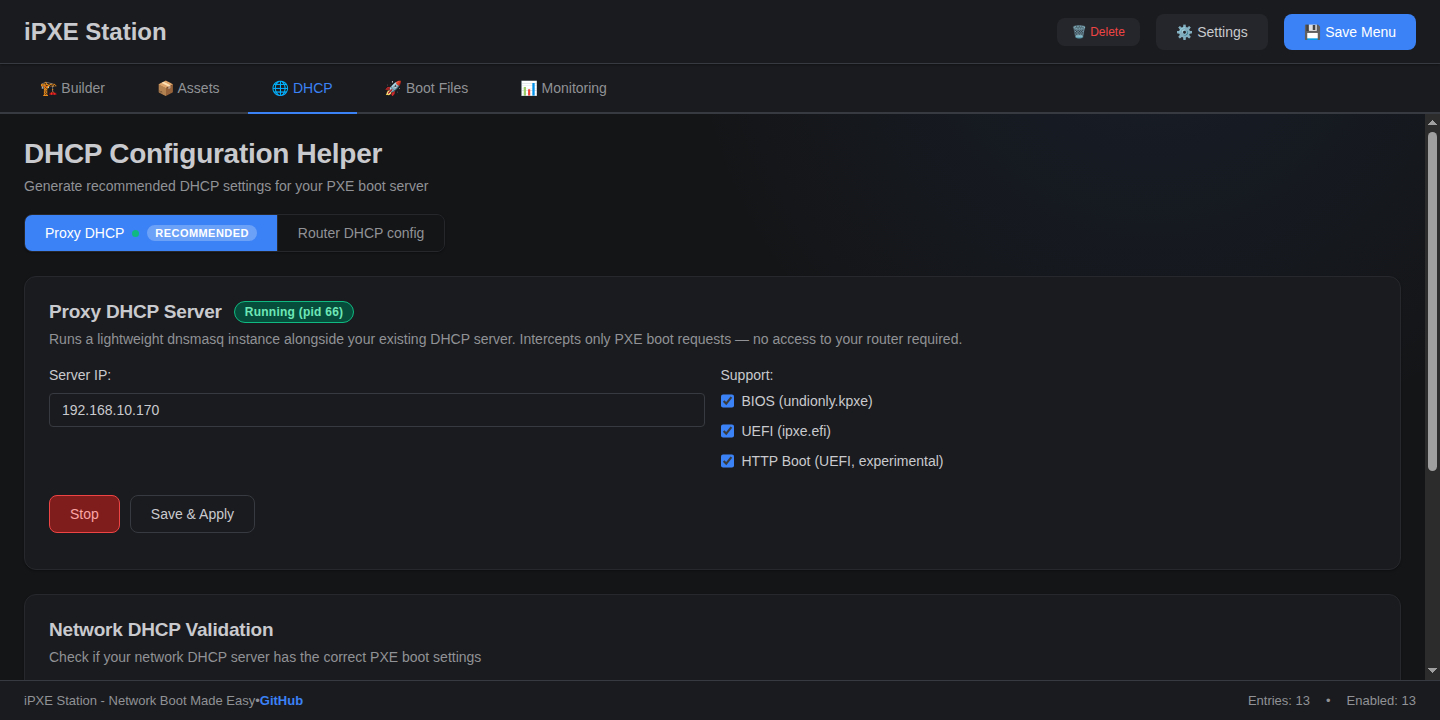
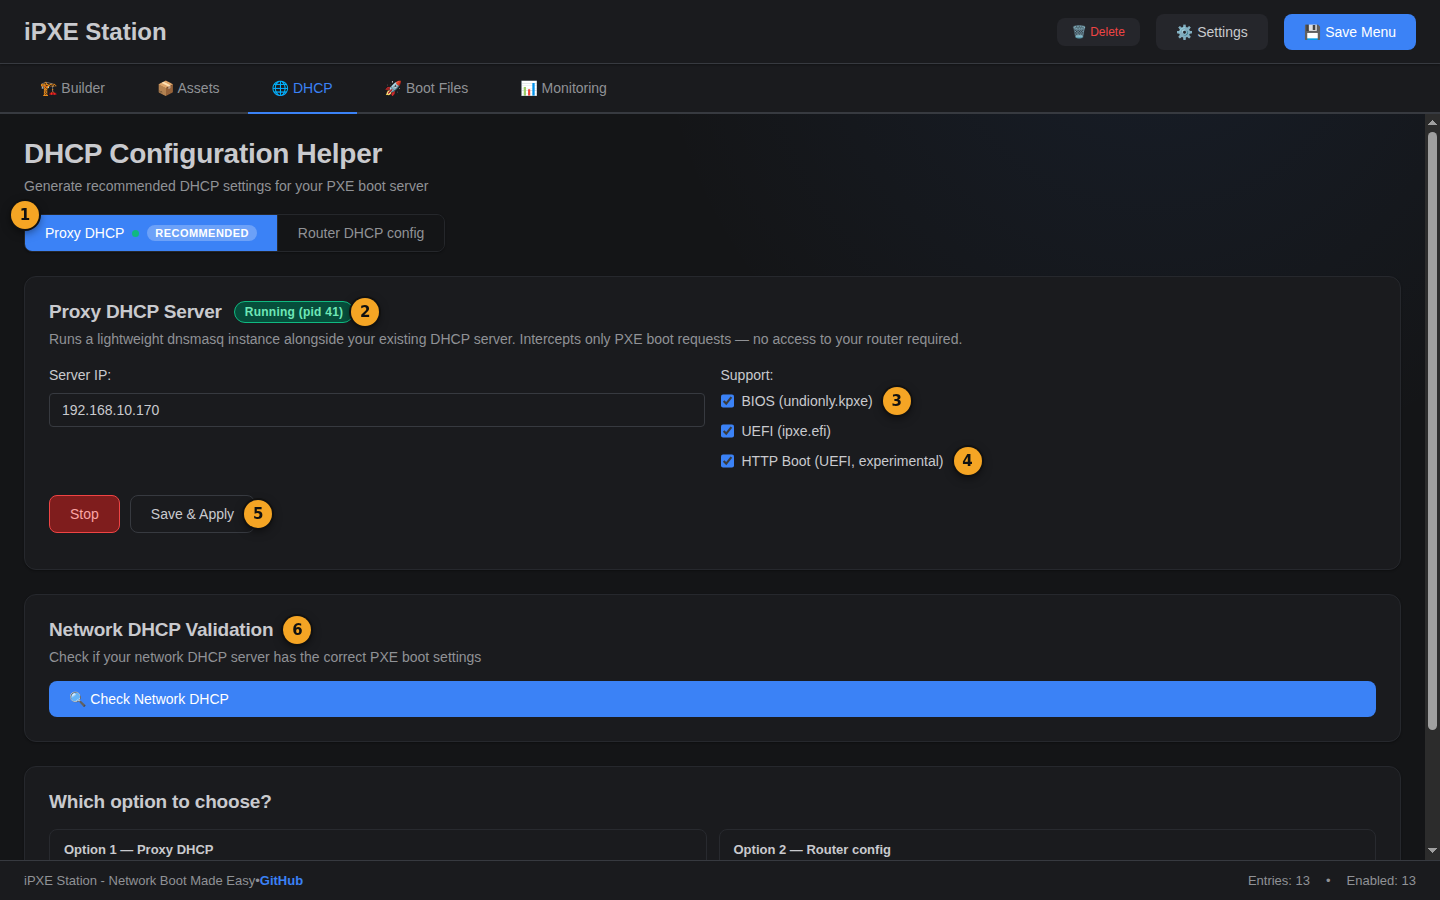
Docs: place annotated screenshots in their feature sections
Replace the 2x2 thumbnail table with one full-width screenshot per feature section
(Builder, Assets, DHCP, Boot Files), each with numbered markers explained in a list
below it, and click-through to the full-size image. Builder now shows the properties
panel of a selected entry, Assets shows the on-disk catalog next to quick download.
Update the test count.

diff --git a/README.md b/README.md
@@ -2,19 +2,22 @@
 
 **iPXE Station** is a self-hosted PXE/iPXE boot server with a modern web interface. It handles the full workflow: downloading distro assets, building hierarchical boot menus, and configuring DHCP — all without touching config files manually.
 
-## 📸 Screenshots
-
-| Menu Builder | Asset Manager |
-|:---:|:---:|
-| ![Menu Builder](docs/screenshots/builder.png) | ![Asset Manager](docs/screenshots/assets.png) |
-
-| DHCP (Proxy DHCP) | Boot Files |
-|:---:|:---:|
-| ![DHCP configuration helper](docs/screenshots/dhcp.png) | ![Boot Files editor](docs/screenshots/boot-files.png) |
-
 ## ✨ Features
 
+> Screenshots are taken from a running instance. The numbered markers on each screenshot match the
+> list underneath it. Click a screenshot to open it full size.
+
 ### 🎨 Visual Menu Builder
+
+[![Menu Builder: tree of entries on the left, properties of the selected entry on the right](docs/screenshots/builder.png)](docs/screenshots/builder.png)
+
+1. **Search and bulk actions** — filter entries, expand or collapse groups, enable or disable everything; **+ Add Entry** opens the scenario wizard
+2. **Menu tree** — submenus and entries; drag to reorder or move an entry into another submenu
+3. **Kernel and initrd** — filled in by the boot recipe for the chosen scenario and downloaded version
+4. **Command-line helper** — merge or replace kernel parameters from ready-made sets
+5. **Save Menu** — regenerates `boot.ipxe`; clients pick up the change on their next boot
+6. **iPXE Script Preview** — the exact script a client will run
+
 - **Scenario-based wizard** — pick a distro/scenario, choose a downloaded version, and kernel/initrd/cmdline are auto-filled
 - **Boot Recipe Engine** — automatically generates correct kernel parameters per distro and boot mode (NFS, HTTP ISO, netboot)
 - **Hierarchical menus** — create submenus to organise entries
@@ -22,6 +25,16 @@
 - **Live preview** — see the generated iPXE script in real time
 
 ### 📦 Asset Manager
+
+[![Asset Manager: what is on disk and quick download of Ubuntu versions](docs/screenshots/assets.png)](docs/screenshots/assets.png)
+
+1. **Categories** — Ubuntu, Debian, Tools & Rescue, Windows, and Presets
+2. **Scan** refreshes the catalog of local assets; **Upload File** adds your own
+3. **Discovered on disk** — shows which parts of each version are present (kernel, initrd, ISO, squashfs), so you know which boot modes will work
+4. **Version picker** — versions come from the official release servers
+5. **Availability check** — confirms the download URL works and shows its size before you start
+6. **Download ISO** — downloads with a progress bar and extracts the ISO for network boot
+
 - **Ubuntu Server & Desktop LTS** — dynamic version picker, downloads directly from releases.ubuntu.com
 - **SystemRescue, Kaspersky Rescue Disk, Debian** — version pickers with direct ISO/netboot downloads
 - **Automatic ISO extraction** — ISOs are extracted in-place for network boot
@@ -29,6 +42,16 @@
 - **Upload & catalog scan** — upload any file, scan local assets
 
 ### 🌐 DHCP Configuration
+
+[![DHCP helper: built-in Proxy DHCP server and network validation](docs/screenshots/dhcp.png)](docs/screenshots/dhcp.png)
+
+1. **Mode** — Proxy DHCP (recommended, no router changes) or Router DHCP config (ready-to-paste settings)
+2. **Status** of the built-in dnsmasq proxy
+3. **Client types** to answer: BIOS (`undionly.kpxe`) and UEFI (`ipxe.efi`)
+4. **UEFI HTTP Boot** (experimental) — see the note below
+5. **Save & Apply** — stores the settings and applies them to the running proxy
+6. **Network DHCP Validation** — sends real DHCP probes and explains what is wrong
+
 - **Proxy DHCP server** — built-in dnsmasq in proxy mode (BIOS + EFI), starts automatically on container restart
 - **Config generator** — ready-to-paste configs for dnsmasq, ISC DHCP, MikroTik RouterOS, Windows Server
 - **Network validator** — sends real DHCP probes (BIOS, UEFI, iPXE) and diagnoses the result with fix suggestions
@@ -38,6 +61,16 @@
   against real HTTPClient-capable UEFI firmware.
 
 ### 🔧 Boot Files
+
+[![Boot Files: autoexec.ipxe editor and Debian preseed profiles](docs/screenshots/boot-files.png)](docs/screenshots/boot-files.png)
+
+1. **autoexec.ipxe templates** — Direct Boot, Chainload Full iPXE, or your own script
+2. **Editor** for the first script a client fetches over TFTP
+3. **Save** writes the file to the TFTP root
+4. **Preseed profiles** — the ★ marks the active profile, served at `/preseed.cfg`
+5. **Templates** for new profiles (Debian Minimal, Debian Desktop)
+6. **Editor** for the selected preseed profile
+
 - **autoexec.ipxe editor** — edit or apply templates directly from the UI
 - **Preseed profiles** — create, activate, and serve Debian unattended install templates from the UI
 - **NFS boot** — Ubuntu Server NFS cmdline with auto-detected export path
@@ -313,7 +346,7 @@ python -m venv .venv
 
 make format        # black + isort
 make backend-lint  # ruff
-make backend-test  # pytest (158 tests)
+make backend-test  # pytest (162 tests)
 make quality       # all of the above
 ```
 
